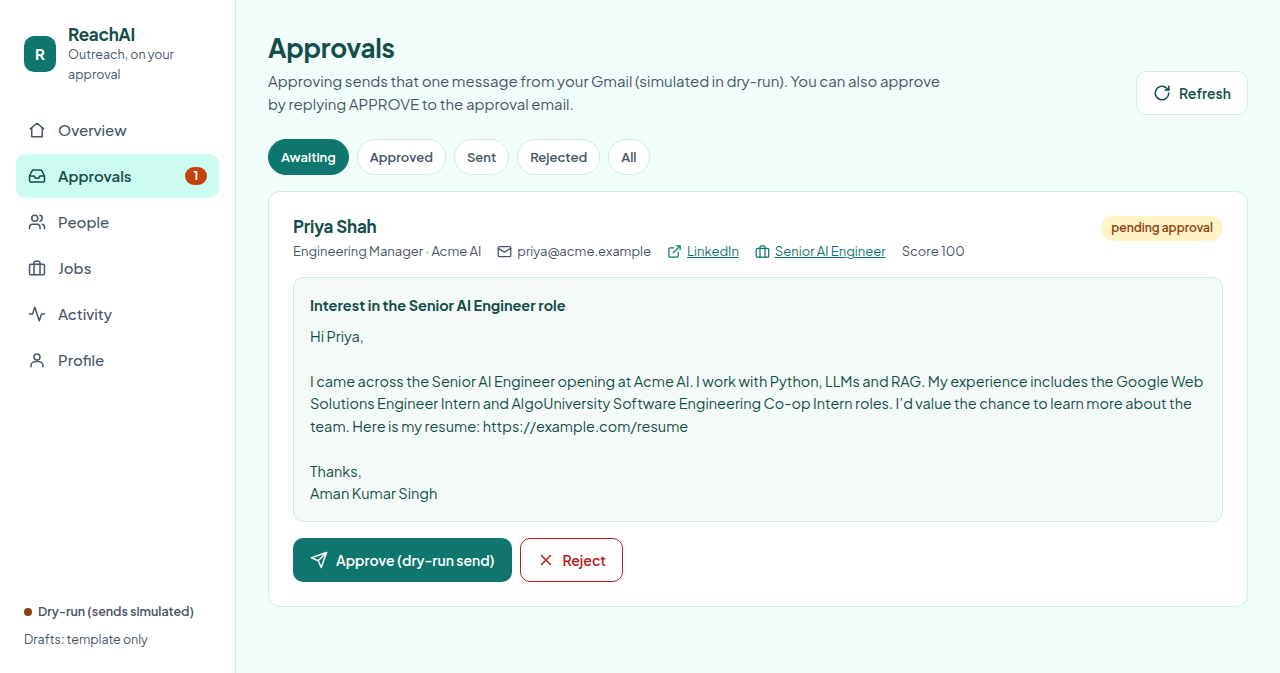
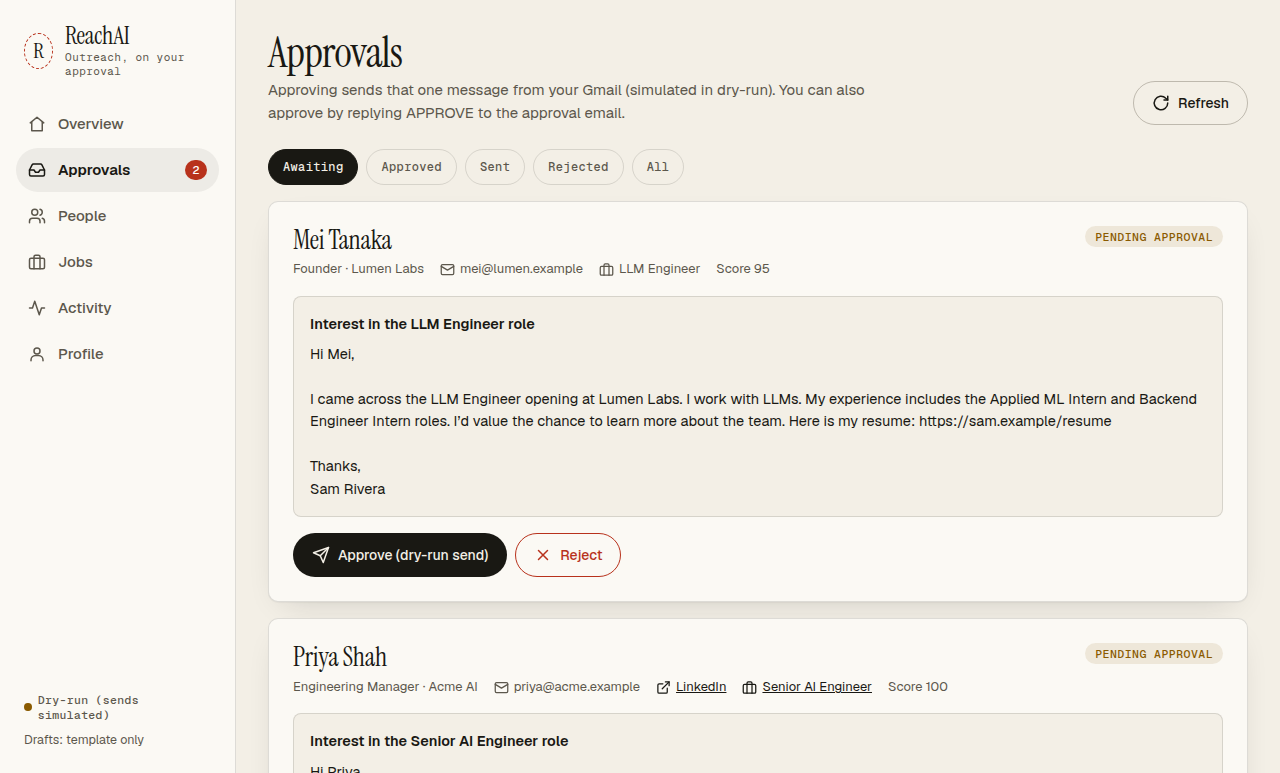
Update screenshots, README and design notes for identity v2
Screenshots now use a fictional profile instead of real candidate data.

diff --git a/design-system/reachai/pages/dashboard.md b/design-system/reachai/pages/dashboard.md
@@ -26,22 +26,28 @@
 
 ### Color Overrides
 
-Adjusted for WCAG AA contrast with white or dark text on filled controls (implemented in `src/reachai/static/index.html`):
+**Identity v2 — paper, ink and stamp** (replaces the generated teal palette; shared with `site/index.html`). All text pairs verified at WCAG AA (lowest 4.68:1).
 
-| Role | Light | Dark | Why |
-|------|-------|------|-----|
-| Primary (buttons, active chip) | `#0F766E` on `#FFFFFF` | `#2DD4BF` on `#042F2E` | Master `#0D9488` with white text is below 4.5:1 |
-| Accent / CTA | `#C2410C` on `#FFFFFF` | `#FB923C` on `#1C0A00` | Master `#EA580C` with white text is below 4.5:1 |
-| Border | `#CDEDE7` | `#24413C` | Master `#99F6E4` is too loud for dense tables |
-| Destructive | `#B91C1C` | `#F87171` | Outline button text needs 4.5:1 on surface |
-| Background / Surface | `#F0FDFA` / `#FFFFFF` | `#0B1514` / `#11201E` | Dark mode derived from Master hues |
+| Role | Light | Dark |
+|------|-------|------|
+| Background (paper) | `#F3EFE6` | `#12110E` |
+| Surface (card) | `#FBF9F4` | `#1D1C18` |
+| Surface deep | `#E9E3D6` | `#1A1915` |
+| Text (ink) | `#191813` | `#EEEAE0` |
+| Muted text | `#5C574C` | `#A8A295` |
+| Rules / borders | ink at 13–14% | ink at 13% |
+| Primary buttons | ink fill, paper text | ink fill, paper text |
+| Accent (stamp) | `#B8321C` | `#F2735A` |
+| Success (sent) | `#2E6A3A` | `#86C994` |
+| Warning (pending) | `#8A5A00` | `#E7B65C` |
 
-Status pills: pending = amber, approved/sending = primary-soft, sent/contacted = green, rejected = red.
+Typography: Instrument Serif (headings, numbers), Geist (UI text), Geist Mono (labels, pills, metadata).
 
 ### Component Overrides
 
 - App shell: left sidebar navigation (collapses to a top tab bar under 860px), hash routes for deep links (`#/approvals`).
-- Buttons: 44px minimum height; disabled buttons use surface/muted colors instead of opacity so they read as disabled on bright fills.
+- Buttons: pill shape, 44px minimum height, `scale(0.97)` on press (160ms, `cubic-bezier(0.23, 1, 0.32, 1)`); hover effects gated behind `(hover: hover) and (pointer: fine)`; disabled buttons use surface/muted colors.
+- Motion (emil-design-eng / animate skills): dialogs enter from `scale(0.96)` + opacity in 220ms; toasts exit faster than they enter; no animation on navigation or other high-frequency actions; reduced motion keeps fades and drops movement.
 - Reject asks for confirmation; approve shows the delivery result in a toast.
 
 ---

diff --git a/README.md b/README.md
@@ -132,11 +132,14 @@ All settings live in `.env` (see [`.env.example`](.env.example)).
 | `REACHAI_DB_PATH` | `data/reachai.db` | SQLite database |
 | `REACHAI_CANDIDATE_PATH` | `data/candidate.json` | Your profile |
 
-## Design system and UI skill
+## Design and UI skills
 
-The dashboard follows a design system generated with the [UI UX Pro Max](https://github.com/nextlevelbuilder/ui-ux-pro-max-skill) skill (MIT): flat style, teal primary with an orange accent, Plus Jakarta Sans, light and dark modes, accessible contrast, visible focus states and reduced-motion support. The tokens and rules live in [`design-system/reachai/MASTER.md`](design-system/reachai/MASTER.md).
+The dashboard and the project website share one identity: **paper, ink and a postage-stamp accent**, because every message ReachAI writes is a letter you sign off on. Headlines are set in Instrument Serif, text in Geist, labels in Geist Mono. Both work in light and dark mode, meet WCAG AA contrast, and respect reduced-motion settings.
 
-The skill itself is vendored in [`.claude/skills/ui-ux-pro-max`](.claude/skills/ui-ux-pro-max), so Claude Code picks it up automatically when you work on the UI in this repo. You can also query it directly:
+Two sets of Claude Code skills are vendored in [`.claude/skills`](.claude/skills) (both MIT) and load automatically when you work on the UI in this repo:
+
+- **[Emil Kowalski's design-engineering skills](https://github.com/emilkowalski/skills)**: `emil-design-eng`, `animate`, `review-animations`, `improve-animations`, `find-animation-opportunities`, `animation-performance`, `animation-vocabulary`, `apple-design`, `mobile-native`, `break-ui`. The motion follows them: strong ease-out curves, press feedback on every button, hover effects only on real pointers, stagger and scroll reveals only on the marketing page.
+- **[UI UX Pro Max](https://github.com/nextlevelbuilder/ui-ux-pro-max-skill)**: searchable UX guidelines used for layout, accessibility and form behaviour. Its first generated design system is kept in [`design-system/reachai`](design-system/reachai) for reference; the current palette is documented in [`design-system/reachai/pages/dashboard.md`](design-system/reachai/pages/dashboard.md).
 
 ```bash
 python3 .claude/skills/ui-ux-pro-max/scripts/search.py "approval queue" --domain ux
